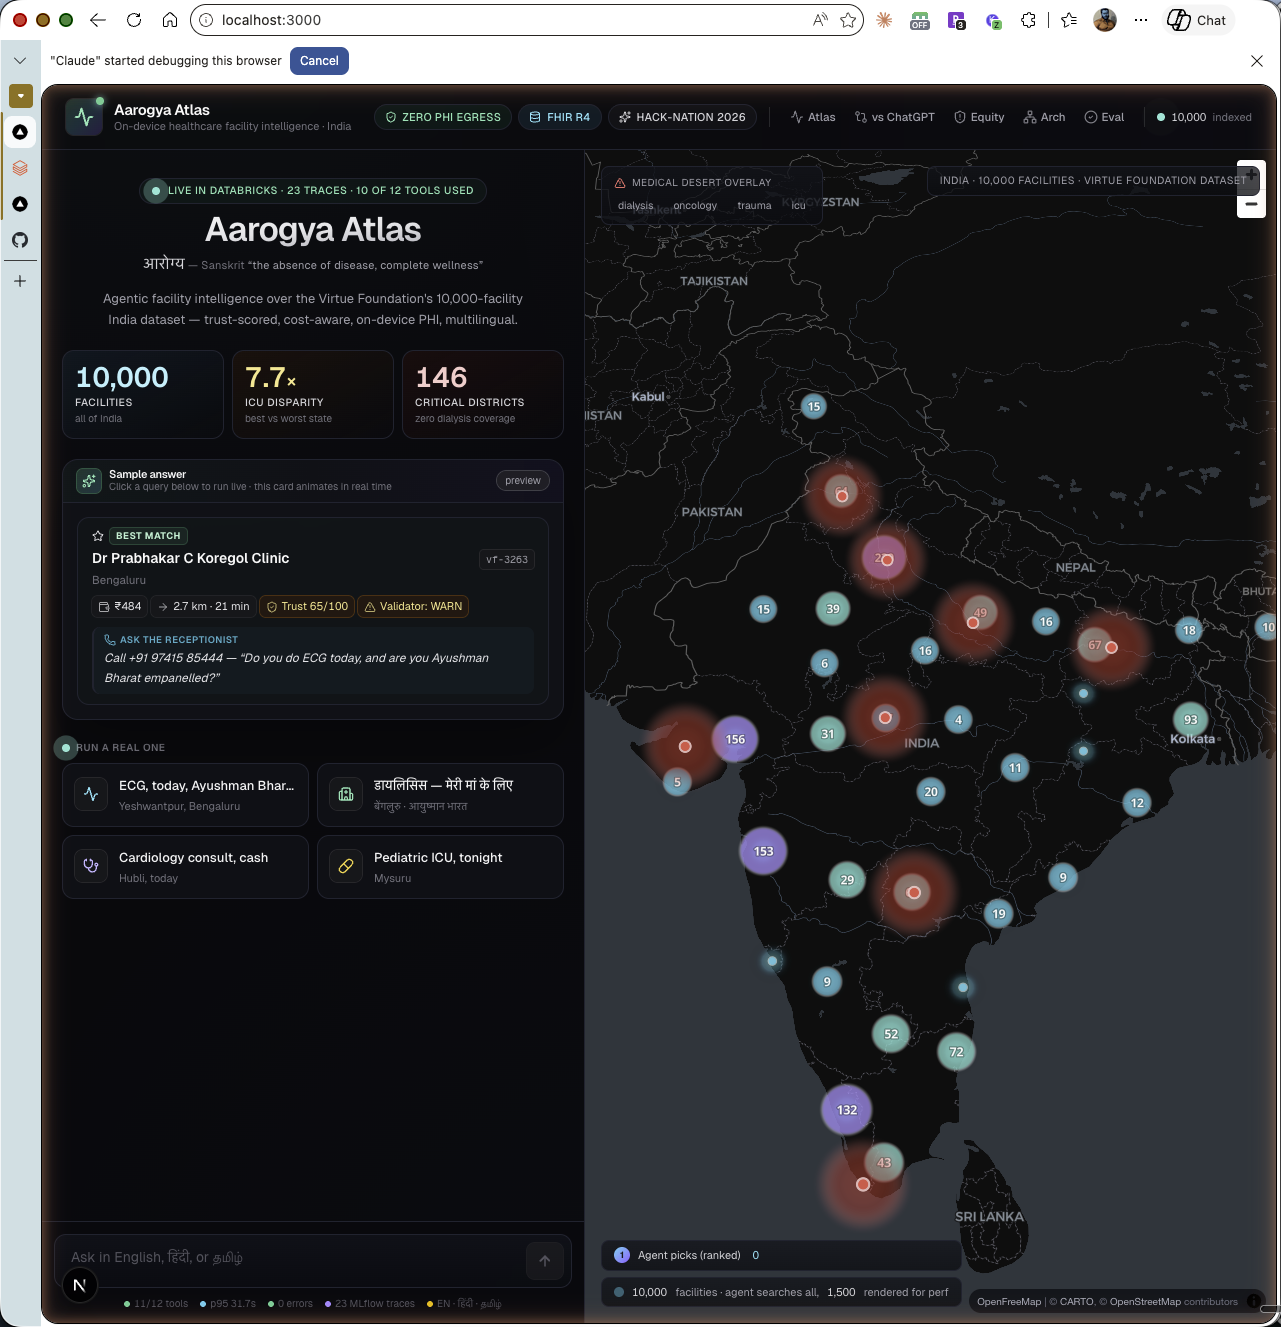
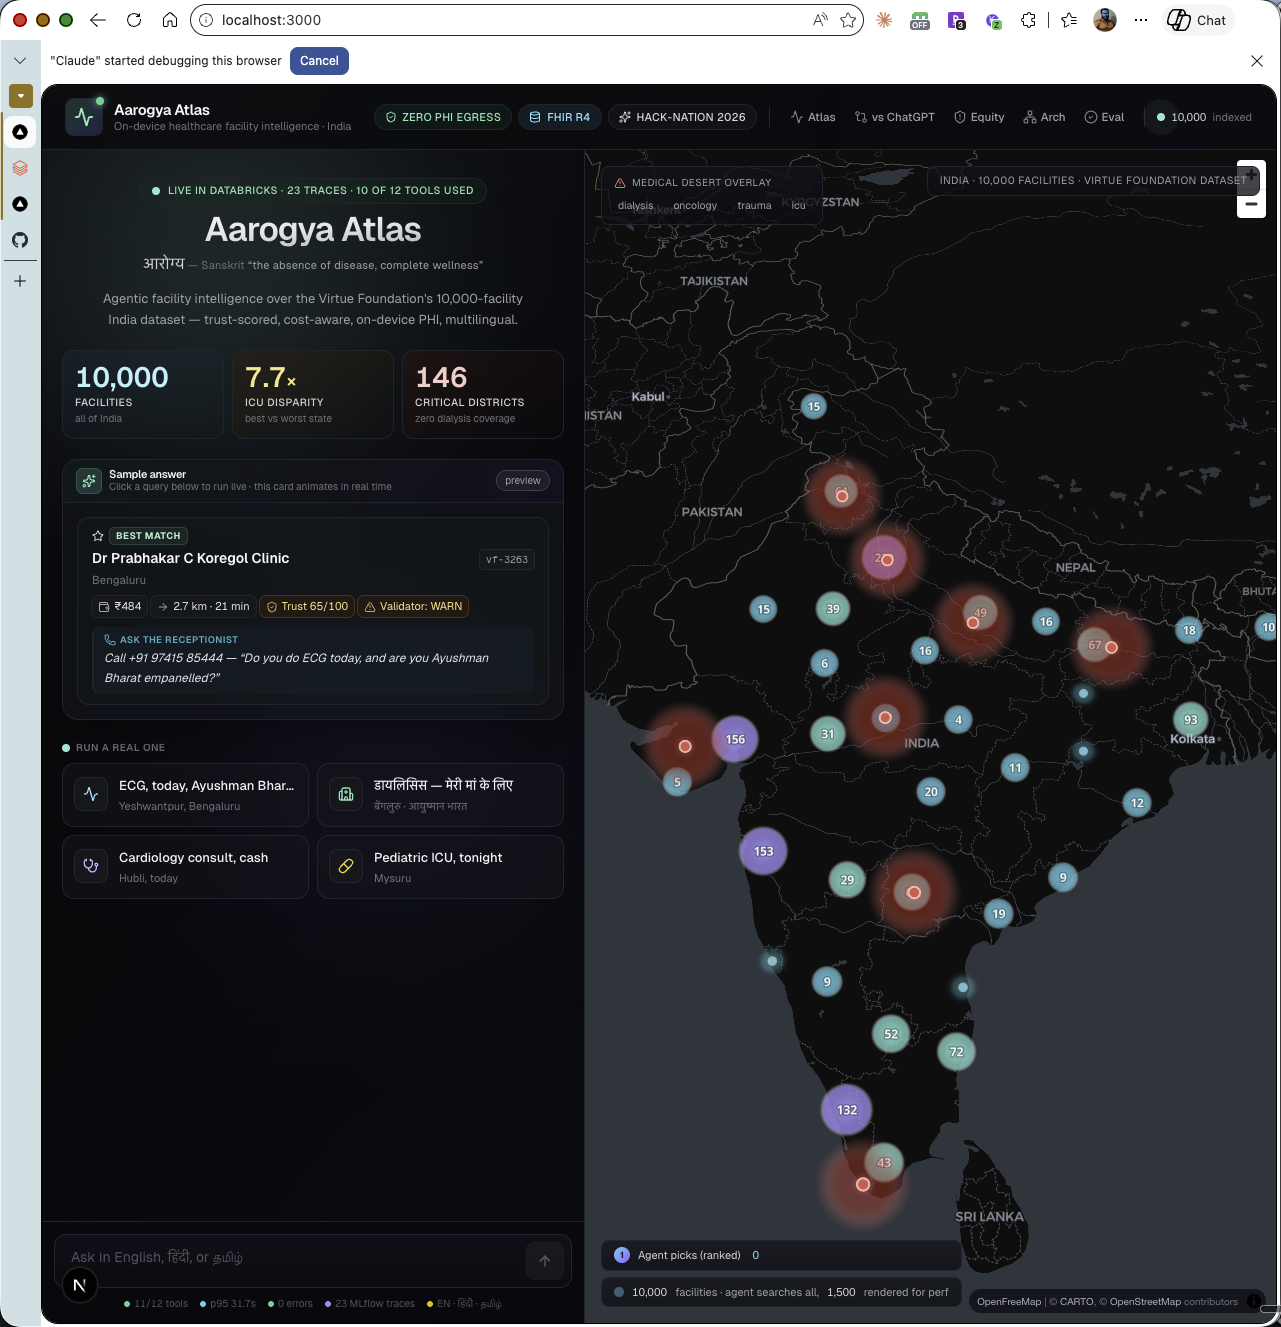
fix: lucide-react has no Github export — swap to Code2 in Footer
Aurora background div added to chat panel (animated radial gradients).

Changed region(s): [[0.0312, 0.0618, 0.9992, 1.0], [0.1249, 0.1545, 0.2186, 0.2472], [0.0937, 0.1236, 0.1249, 0.1545]]

diff --git a/apps/web/src/app/page.tsx b/apps/web/src/app/page.tsx
@@ -136,8 +136,11 @@ export default function HomePage() {
       <Header facilityCount={allFacilities.length} loaded={allFacilities.length > 0} />
 
       <div className="flex flex-1 flex-col overflow-hidden md:flex-row">
-        <aside className="flex max-h-[60vh] w-full flex-col border-b border-[var(--border)] bg-[var(--bg)]/50 md:max-h-none md:w-[44%] md:min-w-[440px] md:max-w-[640px] md:border-b-0 md:border-r">
-          <AgentChat onResult={handleResult} />
+        <aside className="relative flex max-h-[60vh] w-full flex-col overflow-hidden border-b border-[var(--border)] bg-[var(--bg)]/50 md:max-h-none md:w-[44%] md:min-w-[440px] md:max-w-[640px] md:border-b-0 md:border-r">
+          <div className="aurora" />
+          <div className="relative z-10 flex h-full flex-col">
+            <AgentChat onResult={handleResult} />
+          </div>
         </aside>
 
         <main className="relative min-h-[40vh] flex-1 bg-[var(--bg-elevated)] md:min-h-0">

diff --git a/apps/web/src/components/Footer.tsx b/apps/web/src/components/Footer.tsx
@@ -1,5 +1,5 @@
 import Link from "next/link";
-import { Github, ExternalLink } from "lucide-react";
+import { ExternalLink, Code2 } from "lucide-react";
 
 export default function Footer() {
   return (
@@ -25,7 +25,7 @@ export default function Footer() {
             rel="noreferrer"
             className="inline-flex items-center gap-1 hover:text-zinc-200"
           >
-            <Github className="h-3 w-3" />
+            <Code2 className="h-3 w-3" />
             Repo
           </a>
           <span className="text-zinc-700">·</span>
